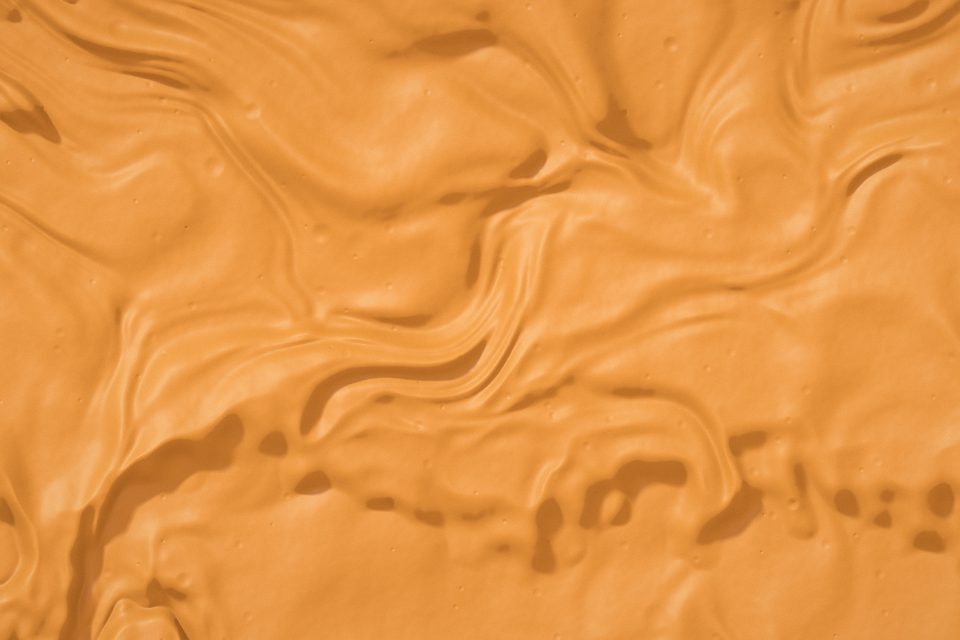
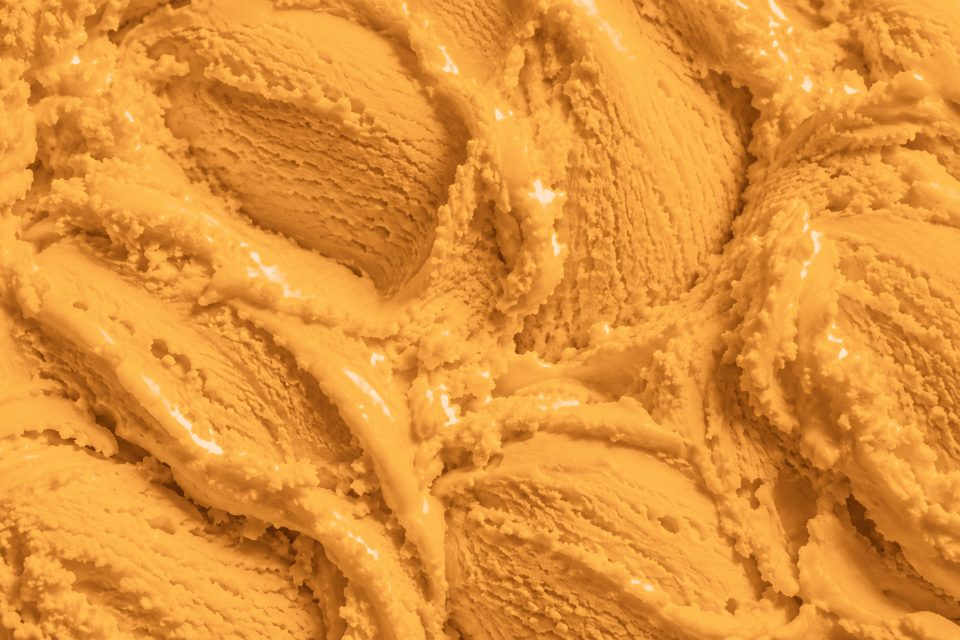
Sabores con fotos: dos bases recoloreadas y Picafresa con foto propia
Las imagenes de los 24 sabores dejan de ser un render por codigo: salen de dos fotos
neutras generadas con IA (tools/brand-assets/fuentes/), una de crema para los 18 de leche y
otra de sorbete para los 6 de agua. La foto aporta forma, textura y luz; el sabor, solo el
color.

- render-helado: modo foto. Toma la luminancia de la base respecto de su mediana: el tono
  normal sale exacto del color del sabor, las sombras mas oscuras y saturadas, y solo el 3 %
  mas claro (suavizado) se blanquea, menos en los sabores oscuros. Contraste x1.25. Las
  bandas del Napolitano serpentean y siguen el relieve de la foto.
- Foto propia por sabor: fuentes/sabores/<id>.(png|jpg|webp) se usa tal cual, solo recortada
  a 3:2. Hoy Picafresa; los de agua se generaran asi uno por uno.
- build-sabores: elige modo solo (foto si estan las dos bases, si no el render de antes),
  --modo, --salida para probar sin tocar public/, --fuentes, y hoja de contactos por modo.
  El render sigue dando las mismas imagenes byte por byte.
- CLAUDE.md: de donde salen ahora las imagenes de los sabores.

diff --git a/tools/brand-assets/scripts/lib/render-helado.js b/tools/brand-assets/scripts/lib/render-helado.js
@@ -8,6 +8,12 @@
  *      oclusión, brillo especular, subsuperficie). La semilla es fija: misma forma siempre.
  *   2. `pintar(color)` solo combina esos términos con el color de cada sabor. Lo único que
  *      cambia entre una imagen y otra es el color.
+ *
+ * Modo foto: en vez del relieve calculado, `prepararFoto()` toma una foto real de helado
+ * neutro (blanco, sin trozos) y `pintarFoto()` la recolorea. La foto aporta forma, textura,
+ * luz y sombras; el sabor, solo el color. Hay una foto por base (leche y agua).
+ *
+ * Foto propia: `fotoTalCual()` usa la foto de un sabor sin recolorear, solo recortada.
  */
 ;(() => {
   const SEMILLA = 20261002
@@ -149,11 +155,12 @@
   }
 
   let estado = null
+  /** Cuánto helado cabe de arriba abajo, en unidades del ruido: menos = cámara más cerca. */
+  const ALTO_MUNDO = 0.95
 
   /** Relieve y luz, una sola vez. `superm` = supermuestreo por lado (2 = 4 muestras). */
   function preparar(ancho, alto, superm) {
     const W = ancho * superm, H = alto * superm
-    const ALTO_MUNDO = 0.95 // cuánto helado cabe de arriba abajo: menos = cámara más cerca
     const px = ALTO_MUNDO / H
     const RELIEVE = 0.24
 
@@ -303,5 +310,123 @@
     return lienzo.toDataURL('image/jpeg', calidad)
   }
 
-  window.HeladoRender = { preparar, pintar }
+  // ── Modo foto ──────────────────────────────────────────────────────────
+
+  const fotos = {}
+
+  /**
+   * Carga una foto base (data URL), la recorta al centro a `ancho`×`alto` y guarda cuánto más
+   * clara u oscura es cada zona respecto del tono normal de la superficie (la mediana). Ese
+   * cociente es lo único que se conserva de la foto: su color se descarta.
+   */
+  /** Una foto (data URL) recortada al centro a `ancho`×`alto`, en un canvas. */
+  async function recortarFoto(dataUrl, ancho, alto) {
+    const img = new Image()
+    img.src = dataUrl
+    await img.decode()
+    const escala = Math.max(ancho / img.naturalWidth, alto / img.naturalHeight)
+    const sw = ancho / escala, sh = alto / escala
+    const lienzo = document.createElement('canvas')
+    lienzo.width = ancho; lienzo.height = alto
+    const ctx = lienzo.getContext('2d')
+    ctx.imageSmoothingEnabled = true
+    ctx.imageSmoothingQuality = 'high'
+    ctx.drawImage(img, (img.naturalWidth - sw) / 2, (img.naturalHeight - sh) / 2, sw, sh, 0, 0, ancho, alto)
+    return { lienzo, ctx, img }
+  }
+
+  /**
+   * La foto propia de un sabor, tal cual: solo el recorte a 3:2 y el tamaño de la serie. Para
+   * los sabores que se ven mejor con su propia foto que recoloreados.
+   */
+  async function fotoTalCual(dataUrl, ancho, alto, calidad) {
+    const { lienzo } = await recortarFoto(dataUrl, ancho, alto)
+    return lienzo.toDataURL('image/jpeg', calidad)
+  }
+
+  async function prepararFoto(clave, dataUrl, ancho, alto) {
+    const { ctx, img } = await recortarFoto(dataUrl, ancho, alto)
+    const datos = ctx.getImageData(0, 0, ancho, alto).data
+
+    const n = ancho * alto
+    const luz = new Float32Array(n)
+    for (let i = 0; i < n; i++) {
+      luz[i] = 0.2126 * aLineal(datos[i * 4] / 255) + 0.7152 * aLineal(datos[i * 4 + 1] / 255) + 0.0722 * aLineal(datos[i * 4 + 2] / 255)
+    }
+    const orden = Float32Array.from(luz).sort()
+    const mediana = Math.max(1e-4, orden[Math.floor(n * 0.5)])
+    const tope = orden[Math.floor(n * 0.995)] / mediana
+    // Desde dónde un píxel cuenta como brillo de verdad: el 3 % más claro de la foto. Por
+    // debajo, aunque esté arriba de la mediana, es superficie iluminada y conserva su color.
+    const umbralBrillo = orden[Math.floor(n * 0.97)] / mediana
+    const relativa = new Float32Array(n)
+    for (let i = 0; i < n; i++) relativa[i] = luz[i] / mediana
+    // Los brillos se deciden sobre la luminancia apenas suavizada: sobre la cruda, el grano de la
+    // foto convertía cada brillo en una mancha blanca moteada.
+    const relativaSuave = desenfocar(relativa, ancho, alto, 2)
+
+    // Bandas para los sabores de varios colores. Sobre una foto, una costura casi recta se ve
+    // como un corte de edición: aquí serpentea más y además sigue el relieve (los bordes
+    // claros la empujan hacia un lado y las sombras hacia el otro), como tres helados juntos.
+    const px = ALTO_MUNDO / alto
+    const bandaU = new Float32Array(n)
+    for (let y = 0; y < alto; y++) {
+      for (let x = 0; x < ancho; x++) {
+        const i = y * ancho + x
+        bandaU[i] = x / ancho + 0.1 * fbm(x * px * 2.4 + 70, y * px * 2.4 - 15, 4) + 0.06 * (relativaSuave[i] - 1)
+      }
+    }
+
+    const brilloDesde = Math.max(1.02, Math.min(umbralBrillo, tope - 0.01))
+    fotos[clave] = { ancho, alto, relativa, relativaSuave, tope: Math.max(brilloDesde + 0.01, tope), brilloDesde, bandaU, mediana }
+    return { ancho: img.naturalWidth, alto: img.naturalHeight, mediana: +mediana.toFixed(3), tope: +tope.toFixed(2), brilloDesde: +brilloDesde.toFixed(2) }
+  }
+
+  /**
+   * Recolorea la foto `clave` con los colores de un sabor. El tono normal de la superficie sale
+   * exactamente del color del sabor; las sombras, más oscuras y más saturadas (como la luz que
+   * atraviesa el helado real, en vez de irse a gris); los brillos suben hacia blanco, así el
+   * brillo húmedo sigue siendo blanco aun en el chocolate.
+   */
+  function pintarFoto(clave, colores, calidad) {
+    const f = fotos[clave]
+    if (!f) throw new Error(`Falta prepararFoto('${clave}')`)
+    const lista = typeof colores === 'string' ? [colores] : colores
+    const nc = lista.length
+    const albedo = lista.map(hex => [1, 3, 5].map(k => aLineal(parseInt(hex.slice(k, k + 2), 16) / 255)))
+
+    const lienzo = document.createElement('canvas')
+    lienzo.width = f.ancho; lienzo.height = f.alto
+    const ctx = lienzo.getContext('2d')
+    const img = ctx.createImageData(f.ancho, f.alto)
+    // Un poco más de contraste que la foto: en un sabor oscuro las mismas diferencias de luz se
+    // ven más planas que en el blanco de la base.
+    const CONTRASTE = 1.25
+    // Brillo satinado, no espejo: a lo más 65 % hacia blanco, con rampa larga, y menos en los
+    // sabores oscuros, donde el mismo brillo se leía como puntitos de pintura blanca.
+    const BRILLO = 0.65
+    const canal = (a, r, brillo, intensidad) => {
+      const v = r <= 1 ? Math.pow(a, 1 + 0.7 * (1 - r)) * r : hombro(a * r)
+      return v + (1 - v) * BRILLO * intensidad * brillo
+    }
+
+    for (let i = 0, n = f.ancho * f.alto; i < n; i++) {
+      let ar = albedo[0][0], ag = albedo[0][1], ab = albedo[0][2]
+      for (let k = 1; k < nc; k++) {
+        const m = suave(k - COSTURA, k + COSTURA, f.bandaU[i] * nc)
+        ar += (albedo[k][0] - ar) * m; ag += (albedo[k][1] - ag) * m; ab += (albedo[k][2] - ab) * m
+      }
+      const r = Math.pow(f.relativa[i], CONTRASTE)
+      const brillo = suave(f.brilloDesde, f.tope, f.relativaSuave[i])
+      const intensidad = 0.3 + 0.7 * Math.sqrt(0.2126 * ar + 0.7152 * ag + 0.0722 * ab)
+      img.data[i * 4] = Math.round(255 * Math.min(1, Math.max(0, aSrgb(canal(ar, r, brillo, intensidad)))))
+      img.data[i * 4 + 1] = Math.round(255 * Math.min(1, Math.max(0, aSrgb(canal(ag, r, brillo, intensidad)))))
+      img.data[i * 4 + 2] = Math.round(255 * Math.min(1, Math.max(0, aSrgb(canal(ab, r, brillo, intensidad)))))
+      img.data[i * 4 + 3] = 255
+    }
+    ctx.putImageData(img, 0, 0)
+    return lienzo.toDataURL('image/jpeg', calidad)
+  }
+
+  window.HeladoRender = { preparar, pintar, prepararFoto, pintarFoto, fotoTalCual }
 })()

diff --git a/CLAUDE.md b/CLAUDE.md
@@ -116,7 +116,7 @@ One more: the PKCE `code` is single-use, so reloading a spent callback URL yield
 
 **`/admin/estacion` decides what those screens show, live.** The state is one row in `public.estacion` (migration `0033`): the leaderboard period and the *hidden* flavors. Hidden rather than visible on purpose, so a flavor added to the catalog shows up by itself. Admin-only RLS for reading, no write policies: only `estacion_set_periodo` / `estacion_set_sabor` / `estacion_mostrar_todos` write, and each checks `is_admin()`. The row is in the `supabase_realtime` publication; `suscribirEstacion()` in the store reads it, listens for changes, and re-reads it on (re)subscribe, on becoming visible and every 3 minutes, because changes made while disconnected don't come down the channel. That's why the screens never need a reload. The period only drives `/admin/leaderboard`: `/ranking`, the home Top 5 and `get_leaderboard` never read it.
 
-**Flavor catalog: `src/content/sabores.ts` is the single source** — name, `base` and `color`, exported in alphabetical order. `base` (leche/agua) is shown to the public and matters to people who avoid dairy: confirm it with the shop, never guess it. The images in `public/sabores/` are **generated, never hand-placed**: `npm --prefix tools/brand-assets run sabores` renders the same ice-cream surface (same shape, light and framing) tinted with each flavor's `color` — a list of colors paints bands, as for Napolitano — and deletes images of flavors no longer in the catalog. With more than 12 visible, `/admin/flavors` shows them in even pages of up to 12 that rotate every 10 s.
+**Flavor catalog: `src/content/sabores.ts` is the single source** — name, `base` and `color`, exported in alphabetical order. `base` (leche/agua) is shown to the public and matters to people who avoid dairy: confirm it with the shop, never guess it. The images in `public/sabores/` are **generated, never hand-placed**: `npm --prefix tools/brand-assets run sabores` writes them and deletes images of flavors no longer in the catalog. It recolors one of two neutral AI-generated base photos in `tools/brand-assets/fuentes/` — `base-leche` for milk flavors, `base-agua` for water ones — keeping their shape, texture and light and taking only the color from each flavor's `color` (a list paints bands, as for Napolitano). A flavor with its own photo in `fuentes/sabores/<id>.(png|jpg|webp)` uses it as is instead (today only Picafresa; the water flavors are meant to get theirs one by one). Without the two bases it falls back to a procedural render. Rerun it after changing a `color` or adding a flavor. With more than 12 visible, `/admin/flavors` shows them in even pages of up to 12 that rotate every 10 s.
 
 **SEO: the public pages are prerendered at build time, and one manifest drives every `<head>`.** Before this, every URL served the same empty `<div id="root">`: crawlers and link previews (WhatsApp, Facebook, TikTok never run JS) saw a blank page with one shared title, `/sitemap.xml` and `/favicon.ico` returned the SPA shell, and any invented URL answered 200. The pieces:
 
